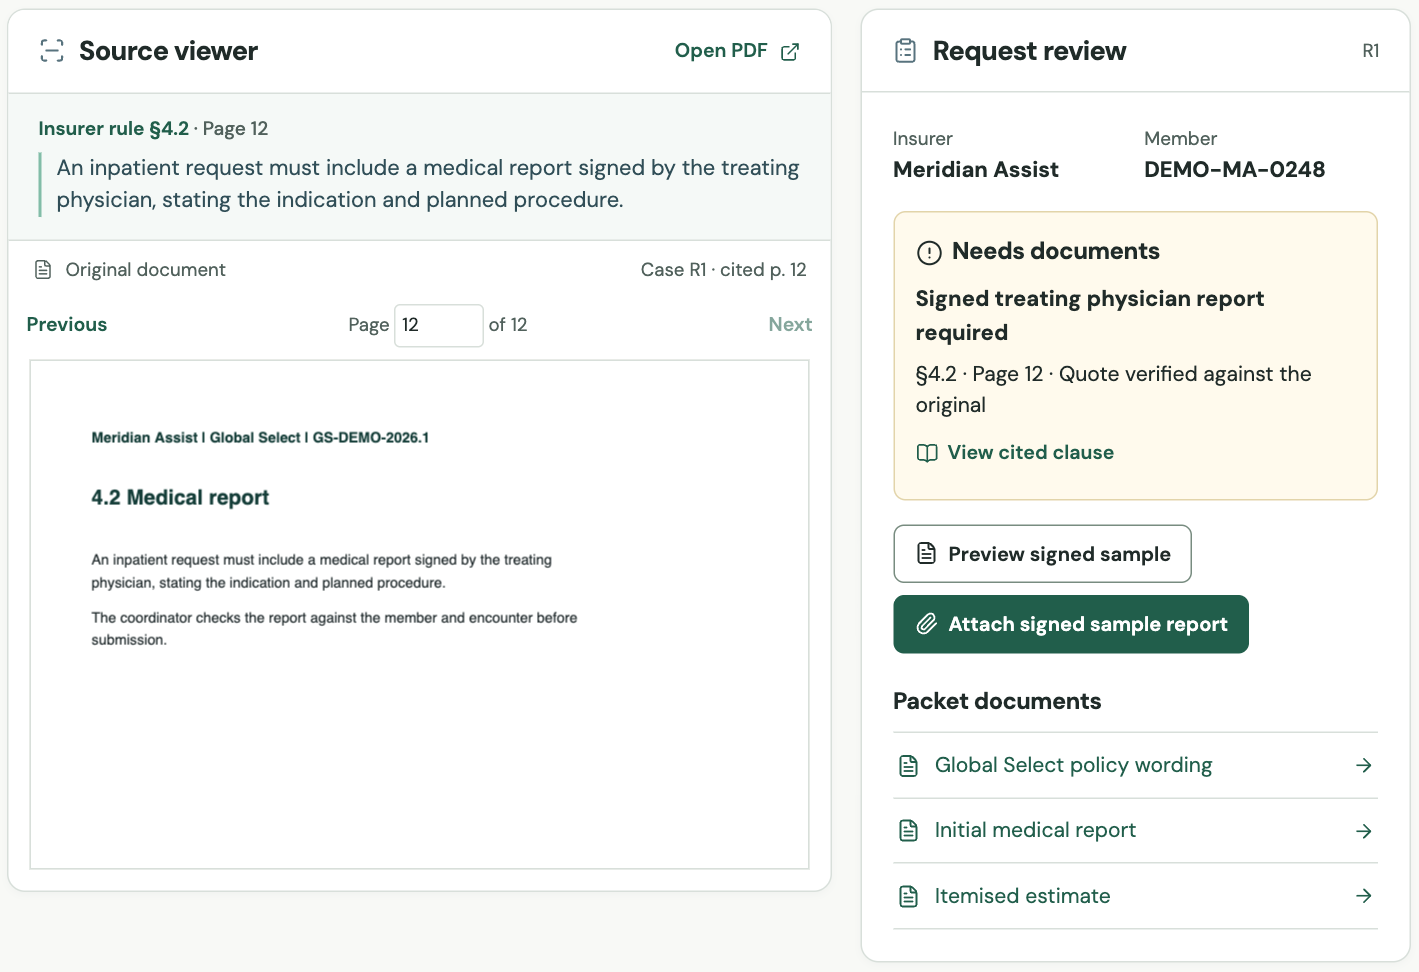
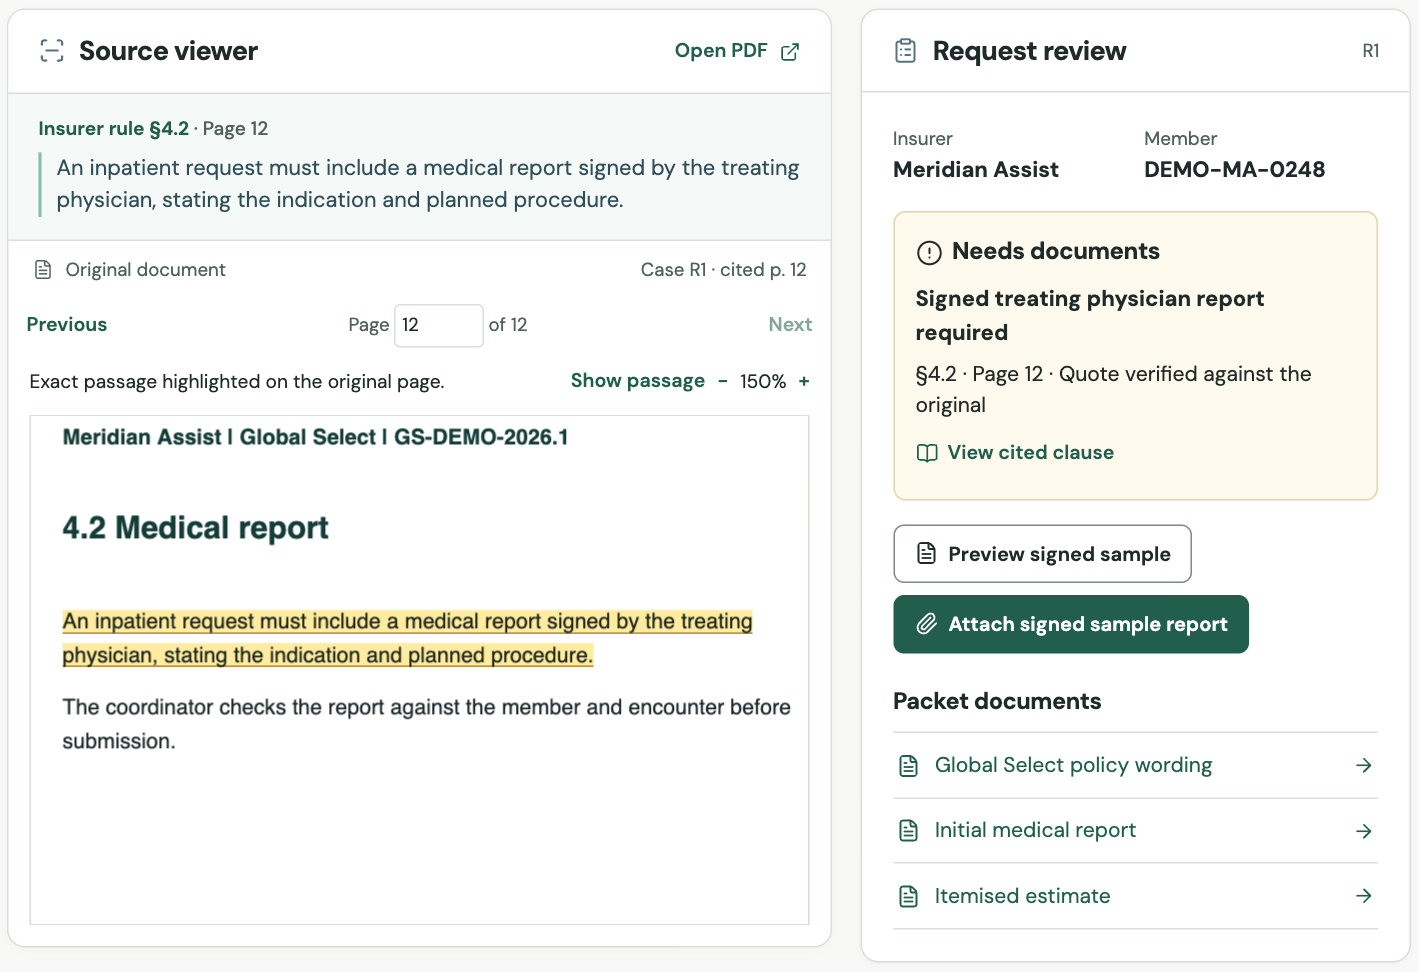
Show the cited words on the original policy in the illustrated walkthrough

diff --git a/demo/README.md b/demo/README.md
@@ -12,6 +12,6 @@ npm --prefix web run build
 npm run demo:record
 ```
 
-The recorder binds the release to `http://127.0.0.1:18092/`. To use a different free loopback port set `DEMO_PORT`. It creates separate, transient hospital and insurer accounts, signs in through the ordinary UI, and cuts authentication from the film. The benchmark runs against disposable synthetic records in a real terminal. The only presentation screens are the title and closing cards. The ten scenes cover one pre-arrival request through insurer receipt. The separate [discharge follow-up rehearsal](../docs/demo.md#human-review-after-a-payer-reply) starts after a payer has already replied. Captions are burned in and also written as SRT. The local MP4 is ignored by Git.
+The recorder binds the release to `http://127.0.0.1:18092/`. To use a different free loopback port set `DEMO_PORT`. It creates separate, transient hospital and insurer accounts, signs in through the ordinary UI, and cuts authentication from the film. The benchmark runs against disposable synthetic records in a real terminal. The only presentation screens are the title and closing cards. The ten storyboard scenes cover one pre-arrival request through insurer receipt. A close-up shows the highlighted words on the original policy. Separate clicks show staff marking the draft reviewed and then submitting it to the insurer. The separate [discharge follow-up rehearsal](../docs/demo.md#human-review-after-a-payer-reply) starts after a payer has already replied. Captions are burned in and also written as SRT. The local MP4 is ignored by Git.
 
 For a persistent, interactive demonstration use `uv run --locked python -m app.hospital_demo` and open the [judge directory](http://127.0.0.1:8040/). [Hospital setup and access](../docs/hospital-workspaces.md)

diff --git a/README.md b/README.md
@@ -8,9 +8,9 @@ ZeroUpfront helps hospital staff catch missing evidence before an inpatient insu
 
 Amelia Morgan is a fictional patient at Canal Bridge Demo Hospital. Her knee arthroscopy estimate is **THB 128,000**, within her fictional Meridian Assist plan’s **THB 150,000** limit. The hospital still needs a signed medical report before it can submit her request.
 
-**1. Find the missing signature.** On case **ZU-0248**, the hospital coordinator opens the cited policy clause. It says the treating physician must sign the report and specify the indication and planned procedure.
+**1. Find the missing signature.** On case **ZU-0248**, the coordinator opens physical page 12. The highlight marks the words requiring the treating physician’s signature, indication and planned procedure on the original policy.
 
-![Hospital review of Amelia’s request with the original policy clause open](docs/figures/amelia-rule.png)
+![Amelia’s missing report beside the highlighted signature requirement on original policy page 12](docs/figures/amelia-rule.png)
 
 **2. Review the corrected request.** Attaching the signed report creates revision 2. The coordinator previews the insurer form, checks the supporting PDFs and marks that revision reviewed before submitting it.
 
